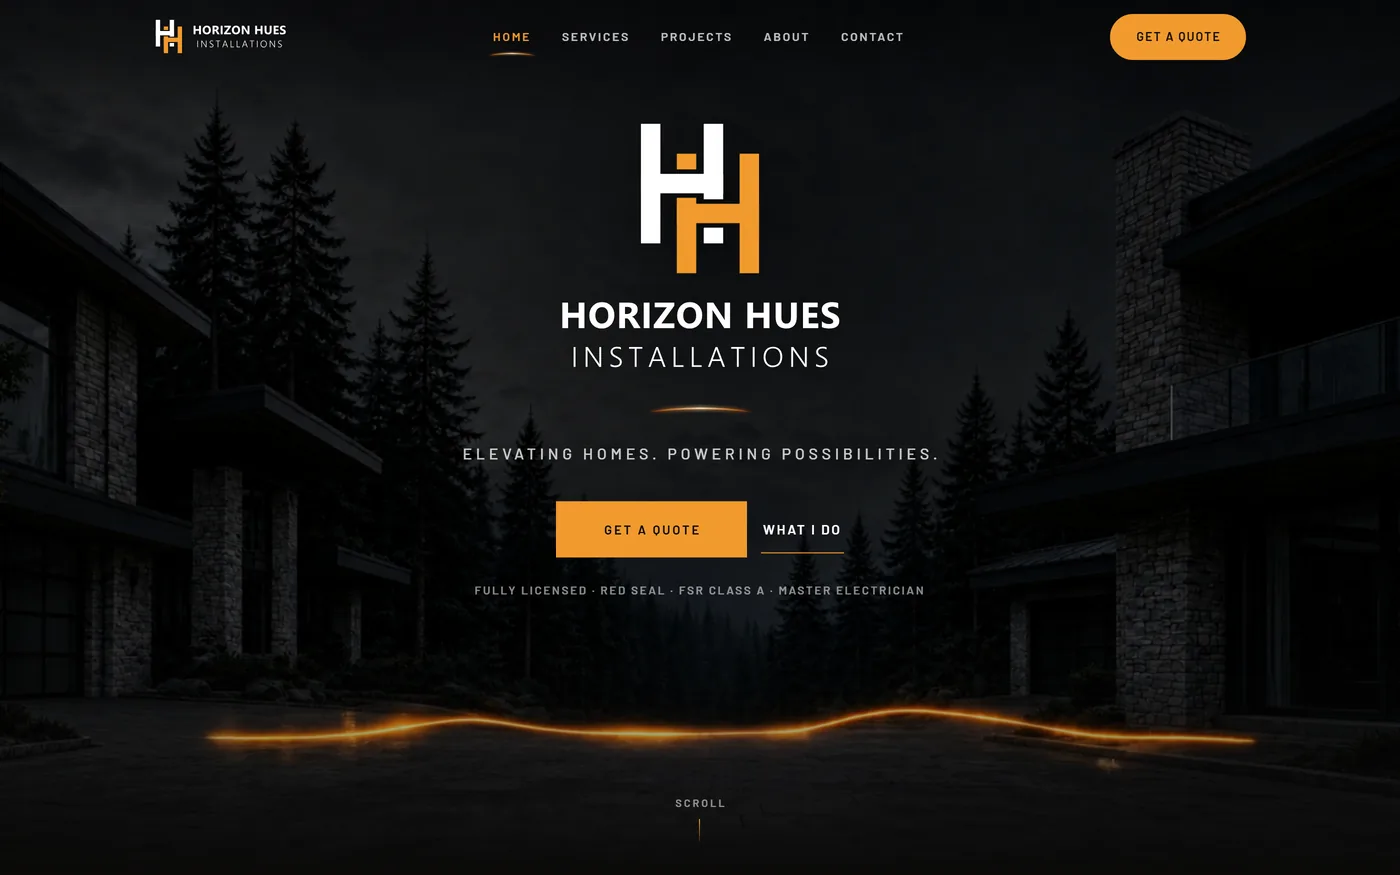
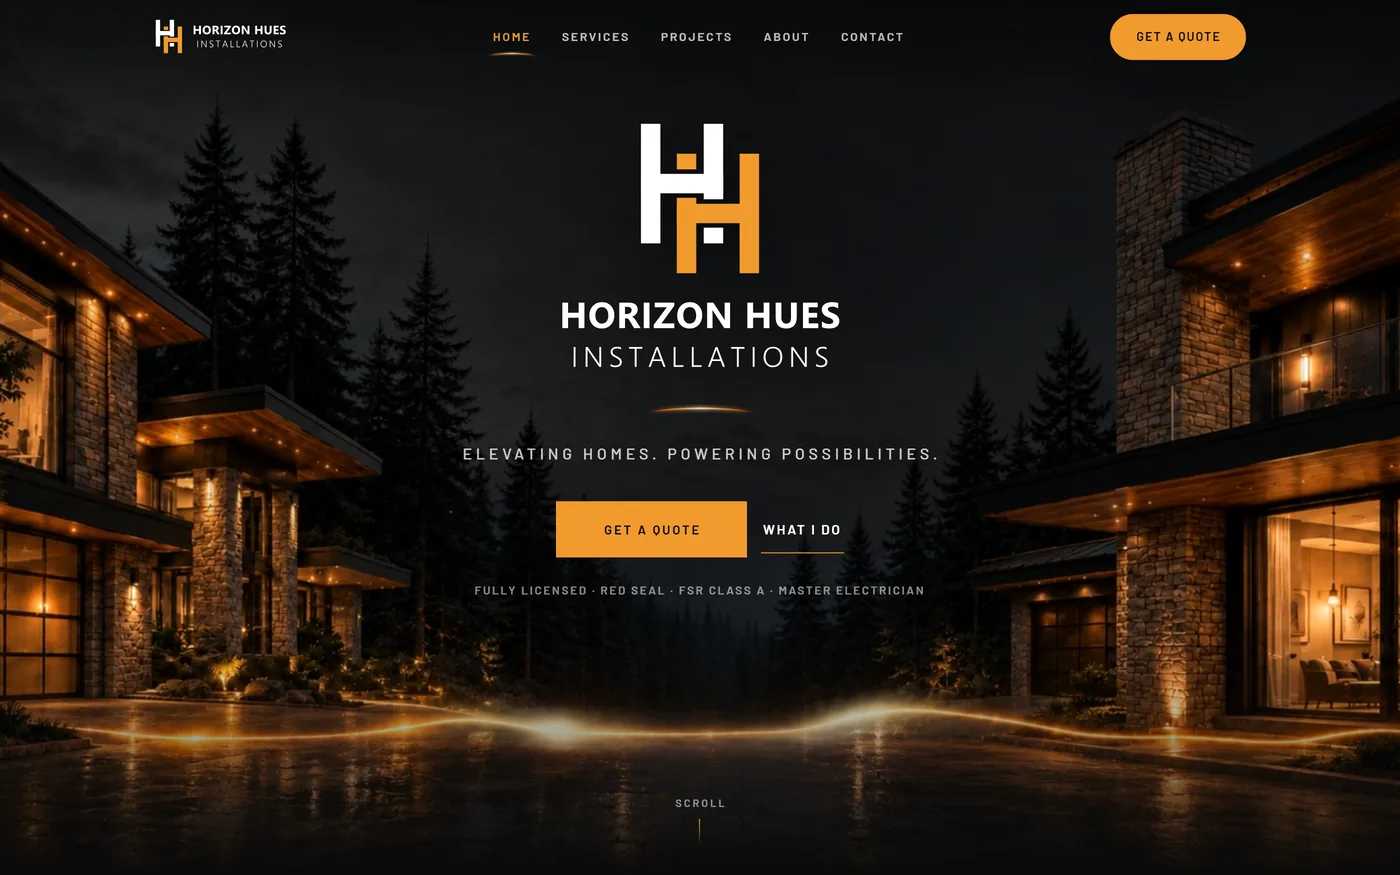
Horizon Hues: plain-English stats, and a hero that is actually lit
Two problems with the first cut, both Sem's catch.

1. The stats were written for us, not for a reader. "8 files -> 1 stack"
   and "0 visual changes / parity machine checked element for element"
   mean nothing to someone deciding whether to hire us. Replaced with
   three facts a customer can actually weigh: 3 logo concepts, 4 trade
   certifications surfaced in the hero, 100% of the words editable by
   Eric. The rebuild story stays in the body, rewritten without the
   jargon: no "ported", no "codebase", no "parity", no "git tag".

   Also removed "hand authored". The Brand note forbids hand-coded and
   its variants anywhere VDT describes its own work, and that slipped
   through in the first commit.

2. The screenshots caught the hero light-trail animation part way
   through, so the house sat dark. Probed the animation: amber pixel
   count in the trail band runs 1,984 at 1.5s and 3,555 at 3s, then
   plateaus near 16,000 from 4.5s and peaks around 11s. The original
   capture used a ~3s settle, which is exactly the half-lit frame.
   Re-shot with a 12s settle and no scroll, since scrolling away and
   back restarts it. Carousel card and the GBP post image regenerated
   from the new frames.

Changed region(s): [[0.0, 0.1851, 1.0, 0.9566], [0.7986, 0.1851, 0.8293, 0.2469]]

diff --git a/src/lib/caseStudies.ts b/src/lib/caseStudies.ts
@@ -109,19 +109,19 @@ export const CASE_STUDIES: CaseStudy[] = [
     kicker: "Electrical contractor · Nanaimo, BC",
     headline: "A brand and a website for an electrician starting from nothing",
     intro:
-      "Horizon Hues Installations is one electrician on Vancouver Island. There was no logo, no domain and no website when we started. We built the identity and the site together, then rebuilt the site onto our shared stack without changing a single pixel.",
+      "Horizon Hues Installations is one electrician on Vancouver Island. There was no logo, no domain and no website when we started. We built the brand and the site together, and he changes every word on it himself.",
     liveUrl: "https://horizonhues.ca",
     year: "2026",
     stackLine: "Custom build · Full brand kit · Self-serve editing",
     metaTitle: "Electrician Website Design in Nanaimo, BC",
     metaDescription:
-      "How we built Horizon Hues Installations a logo, a brand and a five page website from scratch, then ported it onto the shared VDT stack with parity checked element for element so the design did not move.",
+      "How we built a Nanaimo electrical contractor a logo, a brand and a five page website from scratch, with his trade certifications up front and every word on the site editable by him.",
     client:
       "Horizon Hues Installations is Eric Pizzingrilli, a licensed electrical contractor working out of Nanaimo across Vancouver Island from Victoria up to Campbell River. Residential, commercial, service repair and EV chargers, and he is the person who quotes your job and the person who turns up to do it.",
     needed:
       "Everything. A new trade business has no logo, no domain, no email on its own name and nothing for a customer to find when they search. It also has the credibility problem every new contractor has: the certifications are real and hard won, but nobody sees them until they are put somewhere. And the site had to be one Eric could change himself, because he is out of cell service for stretches and cannot be waiting on someone else to fix a typo.",
     builtIntro:
-      "We built the brand first, then the site around it, then moved the whole thing onto the same codebase every other VDT site runs.",
+      "We built the brand first, then the site around it, and it has been quietly improved since without Eric having to do anything.",
     built: [
       {
         title: "The identity, from a blank page",
@@ -132,8 +132,8 @@ export const CASE_STUDIES: CaseStudy[] = [
         body: "Licensed Electrical Contractor, Red Seal, FSR Class A and Master Electrician, all four surfaced in the hero rather than buried on an About page. For a trade nobody can assess by looking, the certifications are the product, so they go above the fold.",
       },
       {
-        title: "A rebuild that changed nothing on purpose",
-        body: "The site launched as eight hand authored HTML files. We ported it onto Next.js on Cloudflare Workers with our shared inline editor, and checked parity element for element against the original rather than trusting our eyes. The design did not move. The original is still preserved at a git tag if we ever need to prove it.",
+        title: "A rebuild you cannot see",
+        body: "A few months after launch we moved the site onto the same system the rest of our sites run on, so that when we improve something once, Eric's site gets it too without anyone touching it. The risk with a move like that is the design quietly shifting. We compared the new version against the old one piece by piece instead of trusting our eyes, and kept the original so we could prove nothing had moved. It looks exactly the same, which was the entire point.",
       },
       {
         title: "He edits it himself, in the browser",
@@ -143,9 +143,9 @@ export const CASE_STUDIES: CaseStudy[] = [
     design:
       "Electrical work happens in the dark and the sell is confidence, so the site is near black with a single amber accent and almost nothing else. The hero is a Vancouver Island treeline at dusk with one glowing line running along the horizon, which is the logo mark drawn at full width. Restraint is the point: a trade site that shouts reads as a franchise, and Horizon Hues is deliberately one person.",
     stats: [
-      { value: "8 files → 1 stack", label: "hand authored HTML ported onto the shared VDT codebase" },
-      { value: "0 visual changes", label: "parity machine checked element for element through the rebuild" },
-      { value: "100%", label: "of page copy editable by Eric, in place on the live site" },
+      { value: "3 logo concepts", label: "drawn from scratch, and the one he picked is his to keep in every format he will need" },
+      { value: "4 certifications", label: "the tickets that took years to earn, now the first thing a customer sees" },
+      { value: "100%", label: "of the words on the site, changed by Eric himself without calling us" },
     ],
     result:
       "A new electrical contractor that looks established from the first search, with a brand he owns outright and a site he can change from a job site. The certifications that took years to earn are now the first thing anyone sees.",
